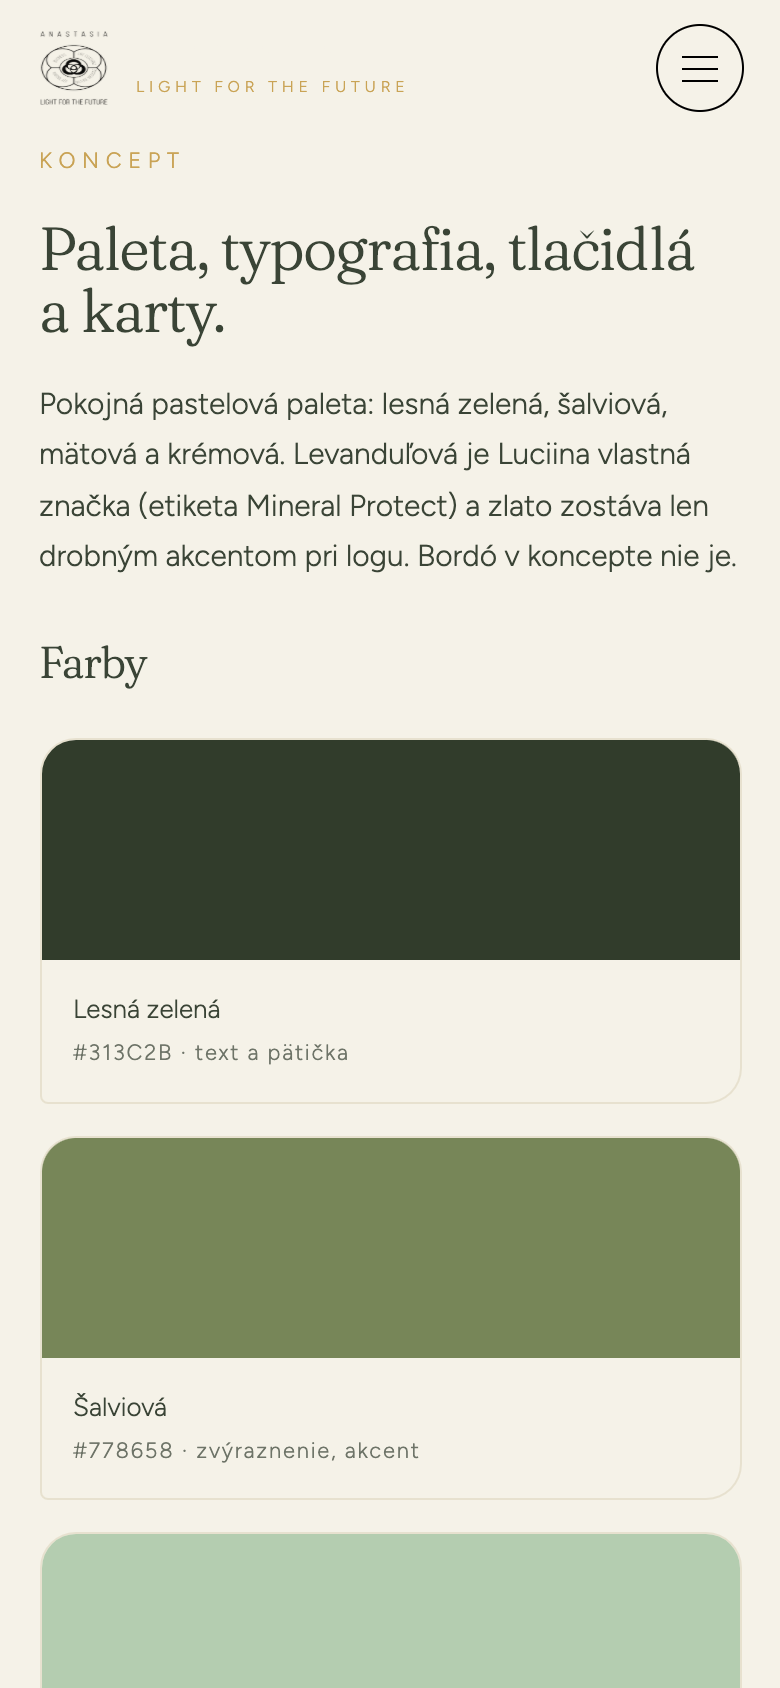
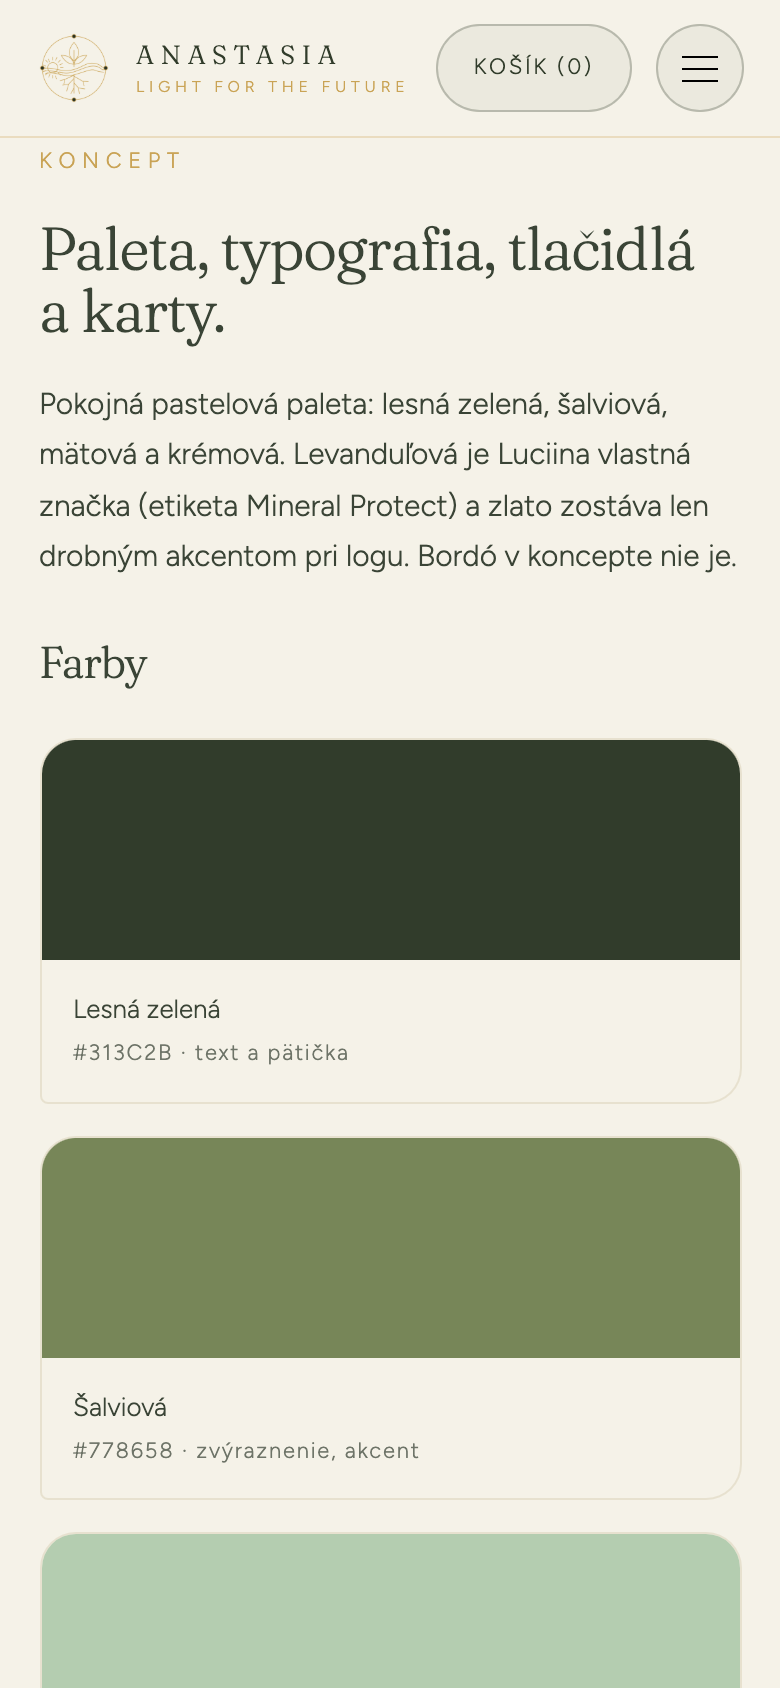
docs(storefront): redesign concept kolo 2 - contrast, parallax section, lavender programs band
- stronger scrim + text shadow so the hero text stays readable over the montage
- full-bleed parallax section right under the hero and a lavender band for the
  programs section
- paleta.html: solid header so the brand caption is readable on cream
- full page screenshots (390 and 1440) of all three concept pages

diff --git a/storefront-prototype/design/redesign-koncept/koncept.css b/storefront-prototype/design/redesign-koncept/koncept.css
@@ -56,19 +56,24 @@ body.k-solid-header .k-head{background:rgba(245,242,232,.94);backdrop-filter:blu
 .k-hero__cuts img{position:absolute;inset:0;width:100%;height:100%;object-fit:cover;opacity:0;transform:scale(1.07);transition:opacity .65s ease}
 .k-hero__cuts img.is-on{opacity:1}
 .k-hero__media video,.k-hero__media img{width:100%;height:100%;object-fit:cover}
-.k-hero__veil{position:absolute;inset:0;background:linear-gradient(180deg,rgba(32,38,28,.42) 0%,rgba(32,38,28,.12) 34%,rgba(24,30,22,.62) 58%,rgba(16,21,15,.92) 100%)}
+.k-hero__veil{position:absolute;inset:0;background:linear-gradient(180deg,rgba(32,38,28,.34) 0%,rgba(32,38,28,.10) 24%,rgba(22,28,20,.58) 44%,rgba(14,19,13,.88) 66%,rgba(9,13,8,.96) 100%)}
 .k-hero__body{position:relative;padding:0 var(--okraj) clamp(64px,12vh,140px);max-width:1080px}
 .k-eyebrow{font-size:11px;letter-spacing:.3em;text-transform:uppercase;color:var(--zlato);margin:0 0 18px}
-.k-hero h1{font-size:clamp(52px,13vw,168px);font-style:italic}
-.k-hero p{max-width:52ch;margin:22px 0 0;font-size:clamp(15px,1.6vw,19px);color:rgba(245,242,232,.88)}
+.k-hero h1{font-size:clamp(52px,13vw,168px);font-style:italic;text-shadow:0 4px 30px rgba(9,13,8,.5)}
+.k-hero p{max-width:52ch;margin:22px 0 0;font-size:clamp(15px,1.6vw,19px);color:rgba(245,242,232,.94);text-shadow:0 2px 18px rgba(9,13,8,.55)}
 .k-hero .k-btn{margin-top:30px;background:var(--krem);color:var(--les);border-color:var(--krem)}
-.k-more{display:none;width:fit-content;margin-top:16px;background:none;border:0;color:inherit;font:inherit;font-size:12px;letter-spacing:.16em;text-transform:uppercase;cursor:pointer;min-height:44px;display:inline-flex;align-items:center;padding:0}
+.k-more{display:none;width:fit-content;margin-top:16px;background:none;border:0;color:rgba(245,242,232,.9);text-shadow:0 2px 14px rgba(9,13,8,.6);font:inherit;font-size:12px;letter-spacing:.16em;text-transform:uppercase;cursor:pointer;min-height:44px;display:inline-flex;align-items:center;padding:0}
 .k-hero .k-btn:hover{background:var(--mata);border-color:var(--mata)}
 .k-scrollcue{position:absolute;left:50%;bottom:22px;transform:translateX(-50%);font-size:10px;letter-spacing:.3em;text-transform:uppercase;color:rgba(245,242,232,.7)}
 
 /* --- sekcie ----------------------------------------------------------- */
 .k-section{padding:clamp(72px,11vw,150px) var(--okraj)}
 .k-section--mata{background:var(--mata-svetla)}
+.k-section--lavanda{background:linear-gradient(180deg,var(--lavanda-svetla),#EFEAF6)}
+.k-section--lavanda .k-eyebrow{color:#7E6A93}
+.k-section--flush{padding:0;margin:0}
+.k-parallax--full{border-radius:0;margin:0}
+.k-parallax--full img{height:clamp(320px,62vw,760px)}
 .k-section--krem2{background:var(--krem-2)}
 .k-headline{font-size:clamp(30px,5vw,62px);max-width:18ch}
 .k-lead{max-width:52ch;margin-top:18px;font-size:clamp(15px,1.4vw,18px)}

diff --git a/storefront-prototype/design/redesign-koncept/index.html b/storefront-prototype/design/redesign-koncept/index.html
@@ -74,6 +74,13 @@
   <p class="k-scrollcue">Rolujte</p>
 </section>
 
+<!-- Parallax pod hero: rýchly záber, ktorý sa posúva s rolovaním (ako pri Leil) -->
+<section class="k-section k-section--flush" aria-hidden="true">
+  <figure class="k-parallax k-parallax--full">
+    <img src="../../public/assets/zdravy-svet-luka.jpg" alt="Zdravý svet" loading="lazy" width="1600" height="1000">
+  </figure>
+</section>
+
 <!-- Manifest -->
 <section class="k-section" id="manifest">
   <p class="k-eyebrow">Manifest</p>
@@ -102,7 +109,7 @@
 </section>
 
 <!-- Programy -->
-<section class="k-section" id="programy">
+<section class="k-section k-section--lavanda" id="programy">
   <p class="k-eyebrow">Programy</p>
   <h2 class="k-headline">AI ANASTASIA Longevity Academy</h2>
   <p class="k-lead">16 týždňov, ktoré môžu zmeniť váš pohľad na zdravie, energiu a starnutie.</p>

diff --git a/storefront-prototype/design/redesign-koncept/paleta.html b/storefront-prototype/design/redesign-koncept/paleta.html
@@ -10,7 +10,7 @@
 <link href="https://fonts.googleapis.com/css2?family=Fraunces:ital,opsz,wght@0,9..144,300..500;1,9..144,300..500&family=Figtree:wght@300;400;500&display=swap" rel="stylesheet">
 <link rel="stylesheet" href="koncept.css">
 </head>
-<body>
+<body class="k-solid-header">
 
 <aside class="k-rail" aria-label="Bočná navigácia">
   <a class="k-rail__mark" href="index.html">ANASTASIA</a>
